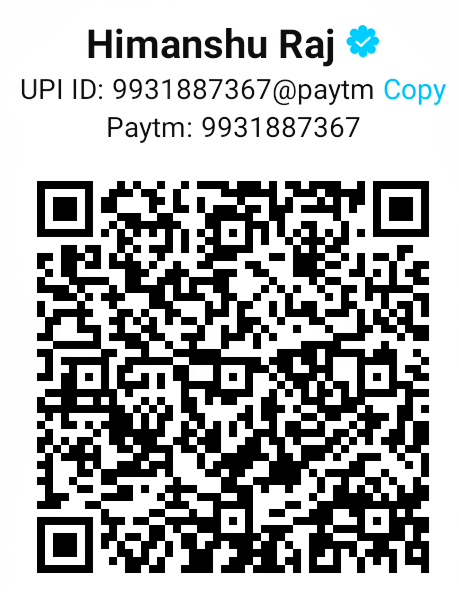
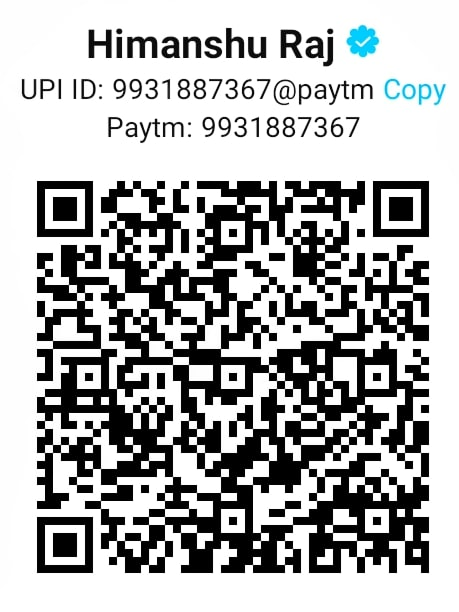
lk

Changed region(s): [[0.8235, 0.1242, 0.976, 0.1863], [0.7625, 0.031, 0.8235, 0.0931]]

diff --git a/styles.css b/styles.css
@@ -150,6 +150,17 @@ a {
   text-decoration: none;
 }
 
+.donate-img {
+  display: block;
+ margin-left: auto;
+ margin-right: auto;
+
+  text-align: center;
+  width: 90%;
+  height: auto;
+  border-radius: 10%;
+}
+
 .insta-logo {
   display: block;
  margin-left: auto;

diff --git a/donate.html b/donate.html
@@ -23,7 +23,11 @@
       </div>
 
     </div>
-    <img src="pa.png" alt="">
+
+
+    <img class="donate-img" src="p.jpg" alt="">
+
+
     <div class="text-center">
       <a href="tel:+919931887367">
         <img class="insta-logo" src="whatsapp.png" alt="Whatsapp">
